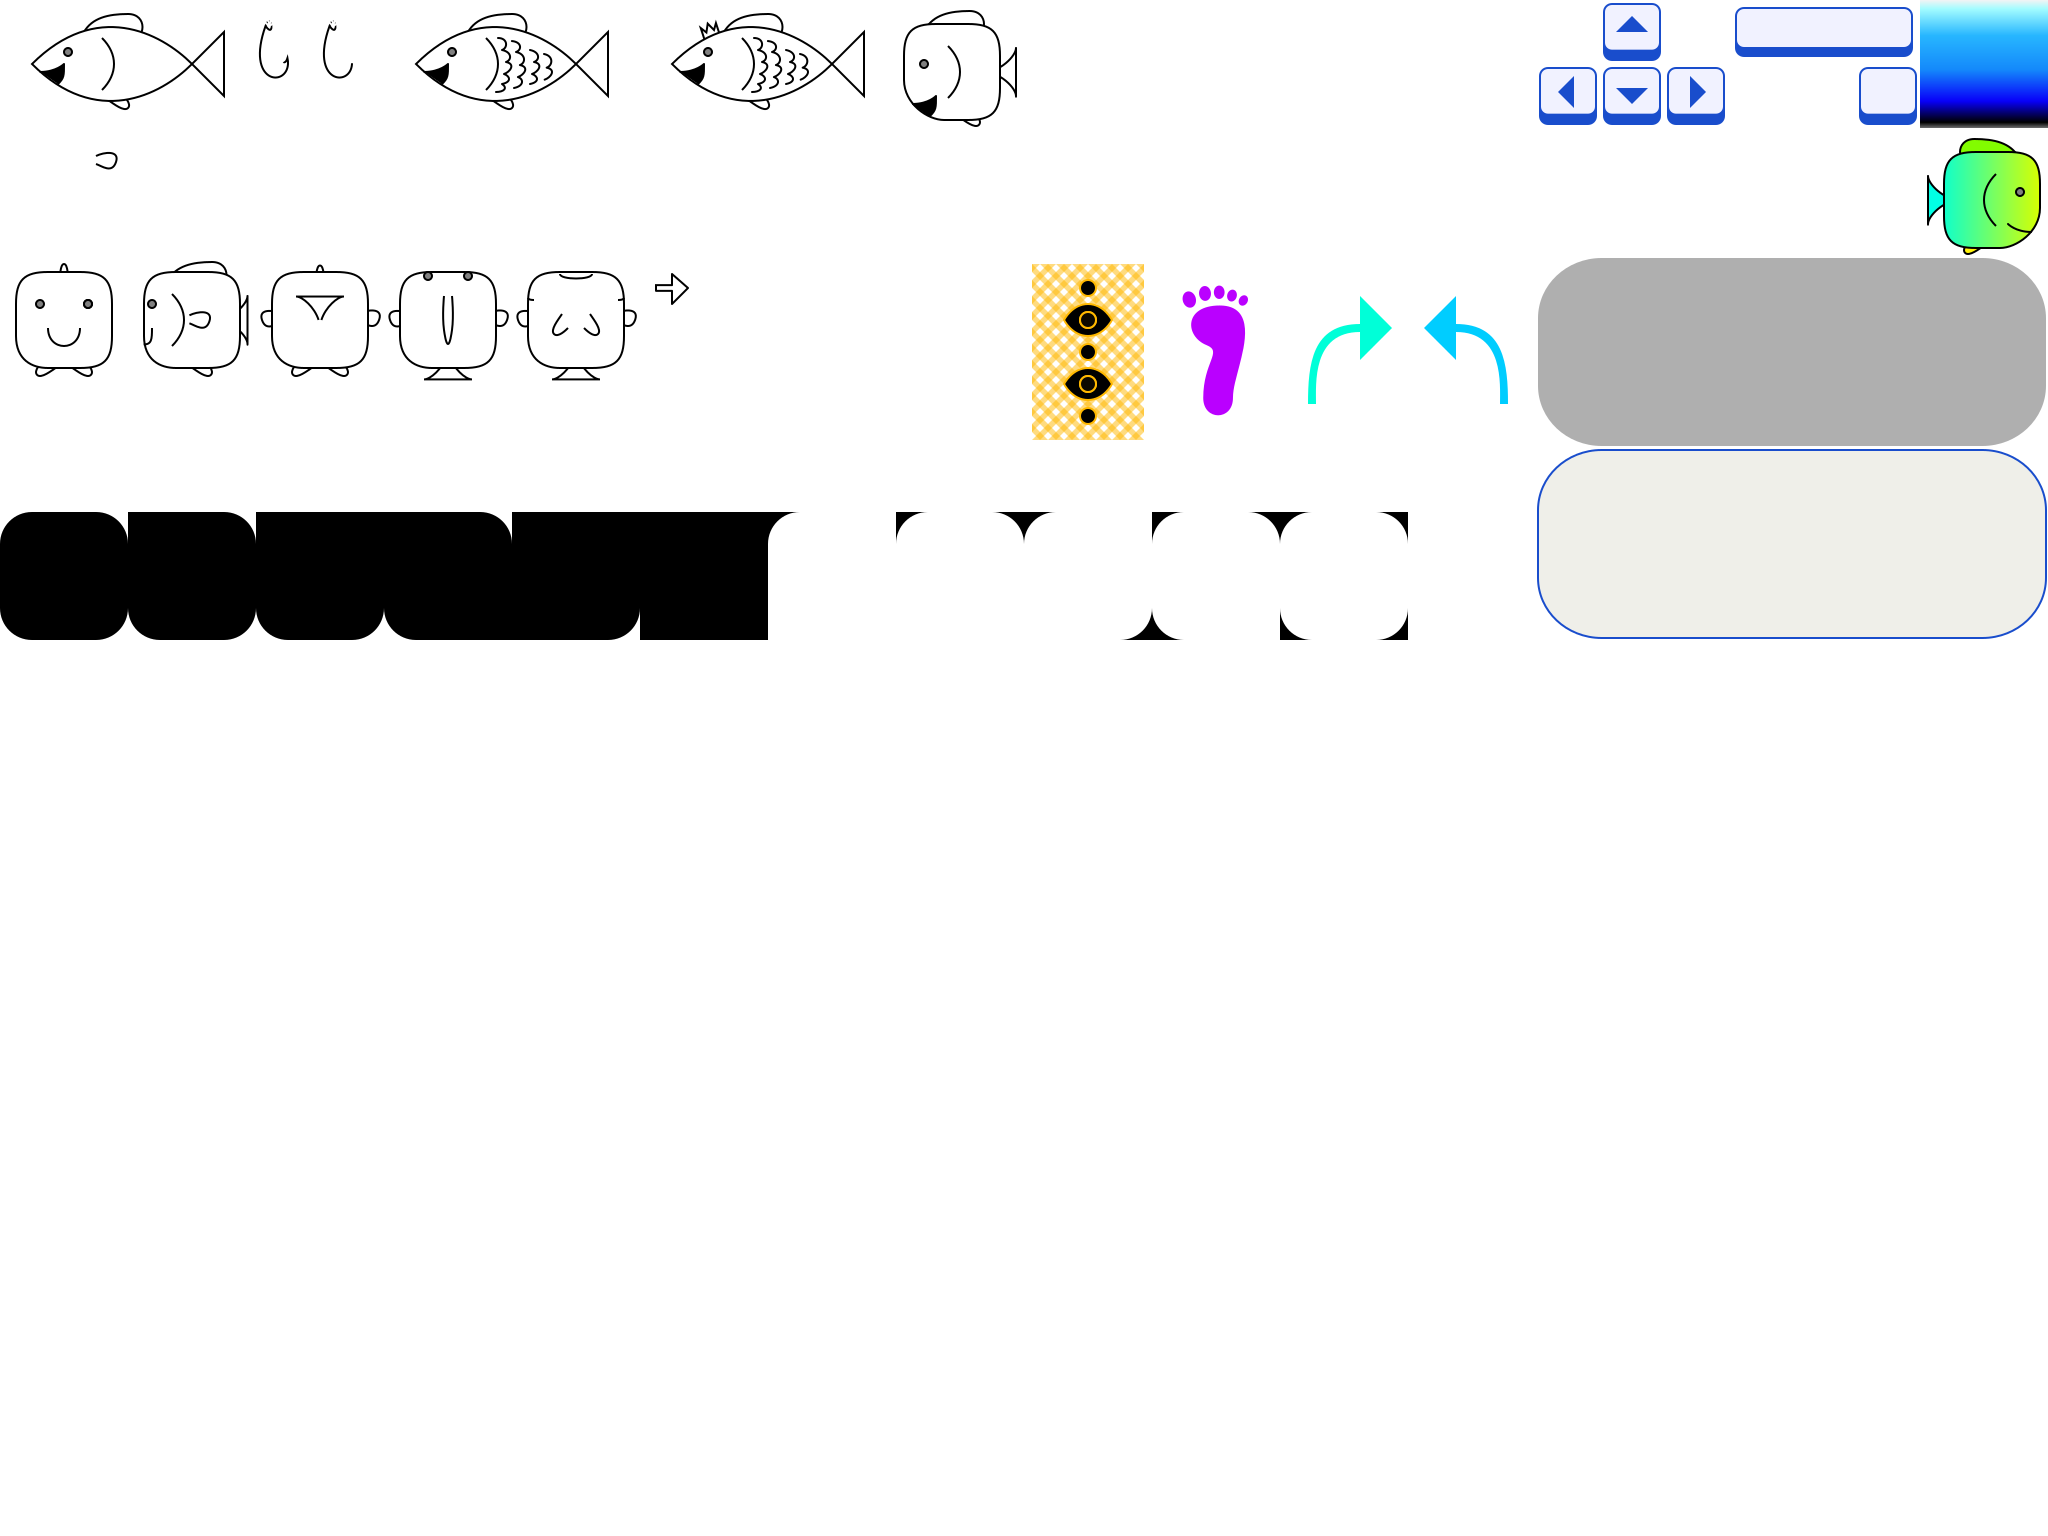
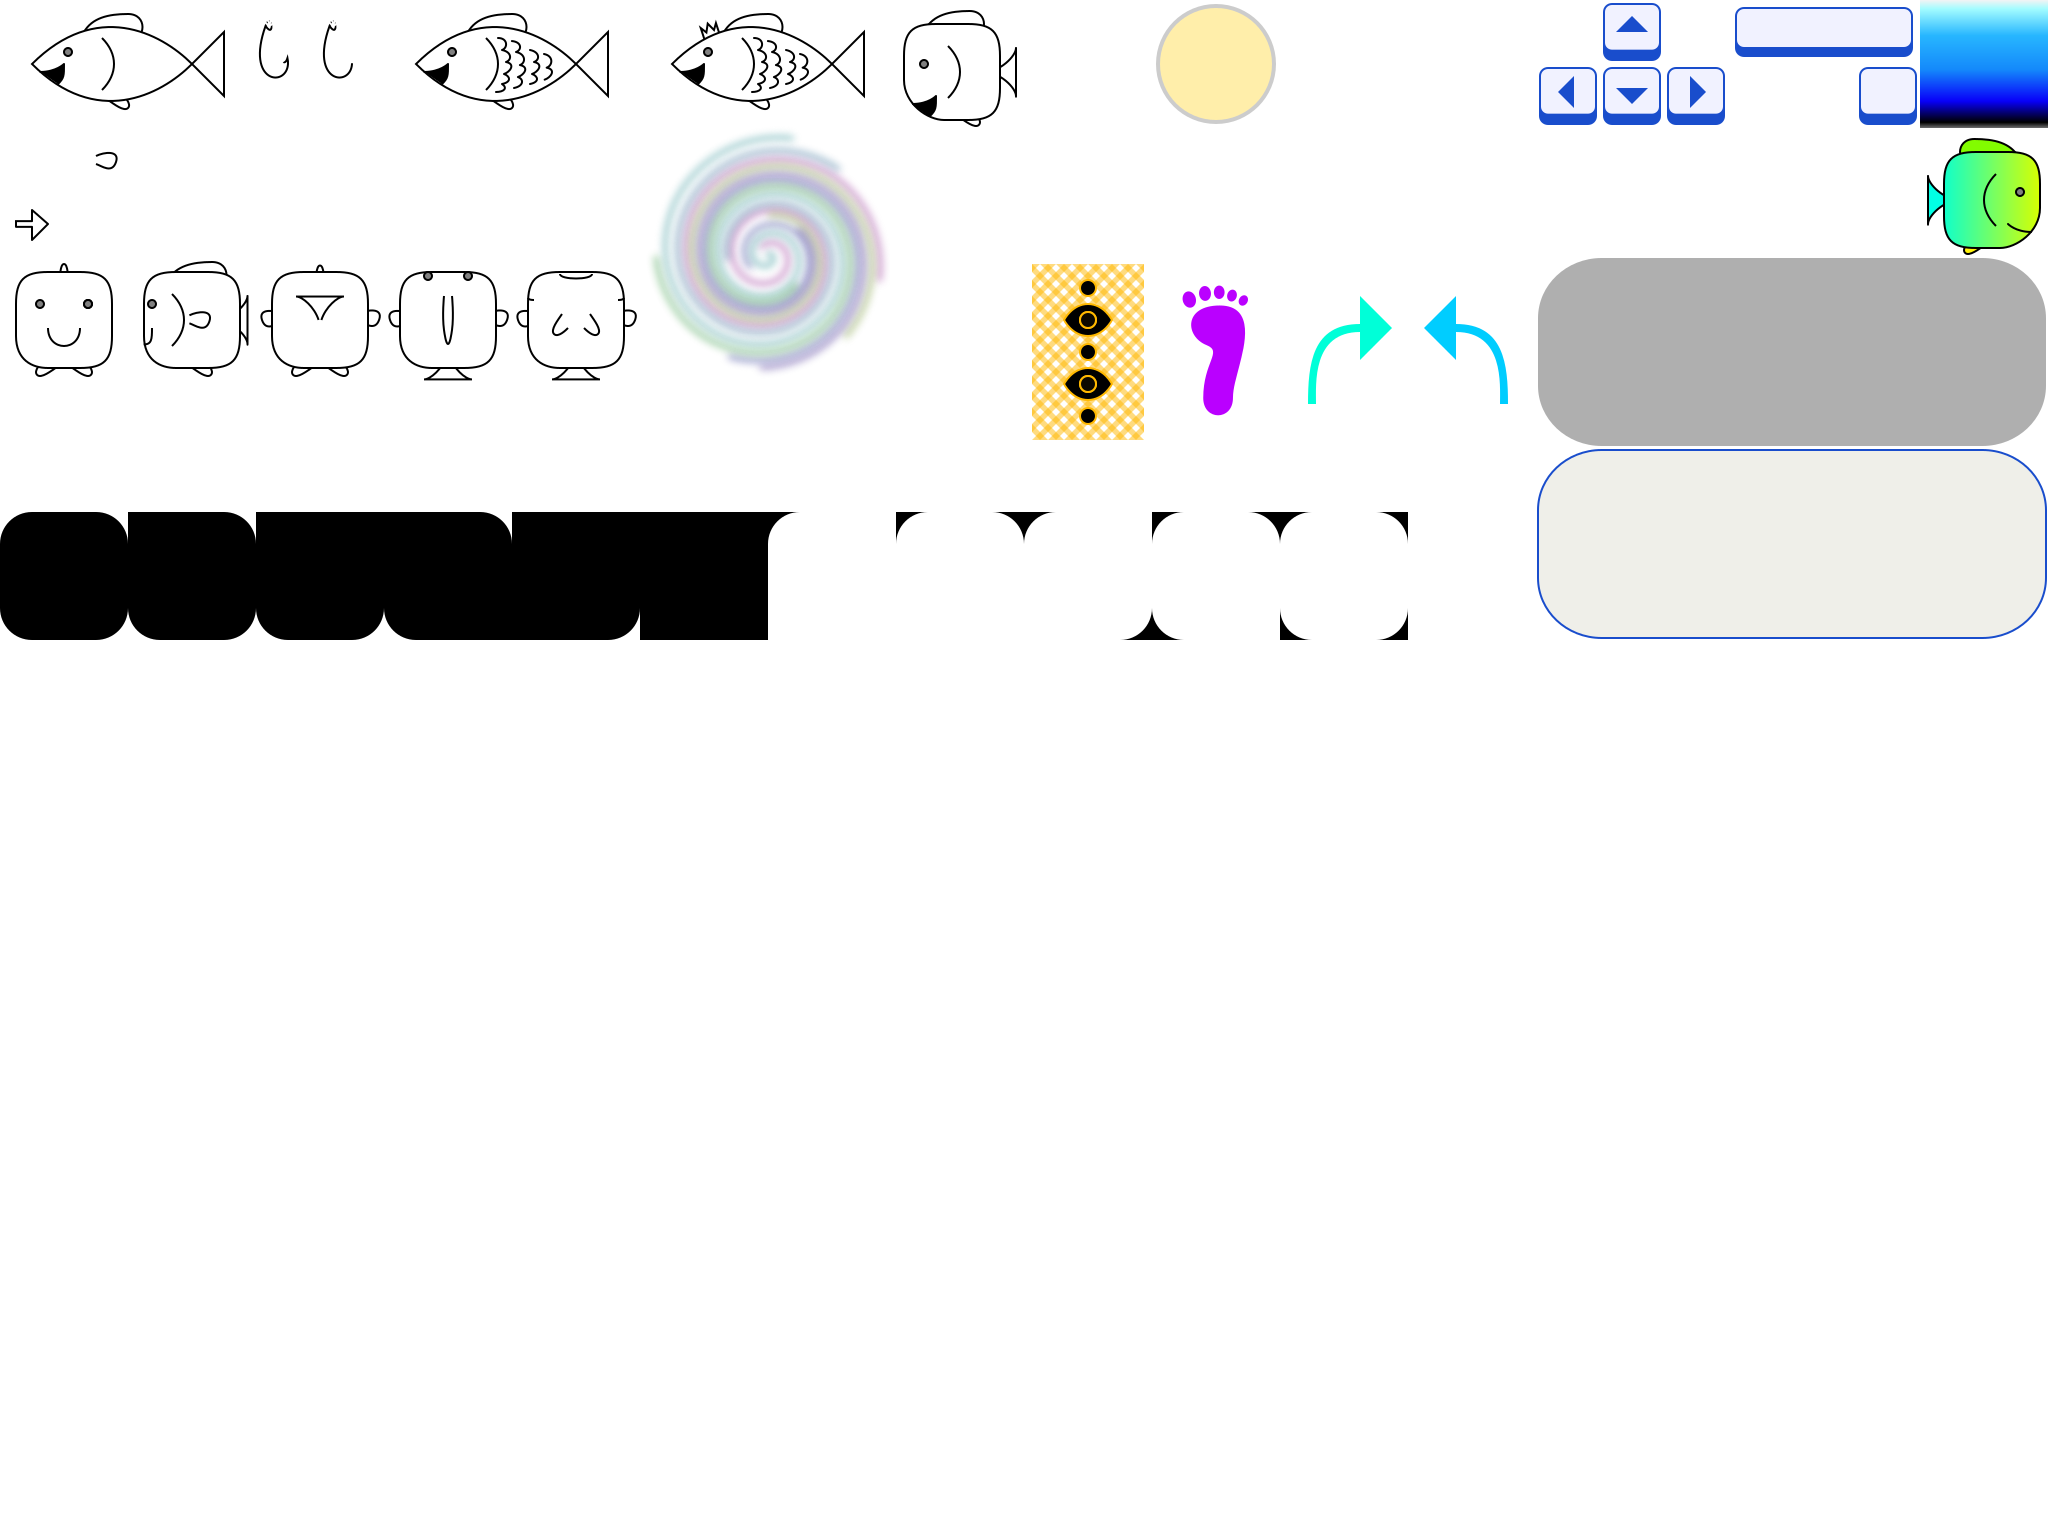
Start adding tiles

Changed region(s): [[0.3125, 0.0938, 0.4375, 0.25], [0.5625, 0.0, 0.625, 0.0938]]

diff --git a/mufl/burrow.py b/mufl/burrow.py
@@ -1,4 +1,5 @@
 from random import shuffle
+from math import tau
 
 from wasabi2d import clock, animate, keys
 
@@ -6,9 +7,12 @@ from .common import add_key_icon, change_sprite_image, KEY_NUMBERS, add_space_in
 
 CARD_COLOR = 0, 0, 0.02
 
-
 def deck_pos(i):
-    return 320 + 80*i, 128-16-8
+    return 280 + 80*i, 128-16-8
+
+
+def tile_pos(x, y):
+    return 304 + x * 63, 300 + y * 63
 
 
 class Burrowing:
@@ -16,17 +20,17 @@ class Burrowing:
         self.game = game
 
         self.bg_layer = game.scene.layers[0]
-        self.deck_layer = game.scene.layers[1]
-        self.card_layer1 = game.scene.layers[2]
-        self.card_layer2 = self.key_layer1 = game.scene.layers[3]
+        self.deck_layer = self.tile_layer = game.scene.layers[1]
+        self.card_layer1 = self.worm_layer = game.scene.layers[2]
+        self.card_layer2 = self.hypno_layer = self.key_layer1 = game.scene.layers[3]
         self.card_layer3 = self.key_layer2 = game.scene.layers[4]
 
         self.deck_sprites = []
 
-        for i in range(3):
+        for i in range(4):
             paper = self.deck_layer.add_sprite('card', color=CARD_COLOR, pos=deck_pos(i))
             ink = self.card_layer1.add_sprite('card_back', pos=deck_pos(i))
-            k = add_key_icon(self.key_layer1, self.key_layer2, 320 + 80*i + 4, 16+4, str(i+1))
+            k = add_key_icon(self.key_layer1, self.key_layer2, 280 + 80*i + 4, 16+4, str(i+1))
             self.deck_sprites.append((paper, ink, *k))
 
         self.space_sprites = add_space_instruction(self.deck_layer, 'Go')
@@ -35,17 +39,23 @@ class Burrowing:
         self.selected = []
         self.turnover_cancels = {}
 
-        cards = ['card_foot'] * 10 + ['card_left'] * 9 + ['card_right'] * 9
+        self.tile_sprites = {}
+        for x in range(4):
+            for y in range(5):
+                self.tile_sprites[x, y] = self.tile_layer.add_sprite('block_10000', pos=tile_pos(x, y))
+
+        cards = ['card_foot'] * 22 + ['card_left'] * 20 + ['card_right'] * 20
         shuffle(cards)
-        self.decks = cards[0:10], cards[10:20], cards[20:30]
-        self.decks[0].append('card_foot')
+        q = len(cards) // 4
+        self.decks = cards[0:q], cards[q:2*q], cards[2*q:3*q], cards[3*q:4*q]
         self.decks[0].append('card_foot')
         self.decks[1].append('card_left')
         self.decks[2].append('card_right')
+        self.decks[3].append('card_foot')
 
         async def init_anim():
             await clock.coro.sleep(0.5)
-            for i in range(3):
+            for i in range(len(self.decks)):
                 self.turn_over(i, i/10)
             await clock.coro.sleep(0.5)
             await self.add_card(0)
@@ -55,6 +65,28 @@ class Burrowing:
         self.ink_sprites = {}
 
         clock.coro.run(init_anim())
+
+        pg = self.hypno_layer.add_particle_group(
+            'hypno', grow=0.9, max_age=1, spin_drag=1.1,
+        )
+        pg.add_color_stop(0, (1, 1, 1, 0))
+        pg.add_color_stop(.4, (1, 1, 1, 1))
+        pg.add_color_stop(.6, (1, 1, 1, .8))
+        pg.add_color_stop(1, (.8, .8, 1, 0))
+        self.hypno_emitters = []
+        for x in range(4):
+            for y in range(5):
+                em = pg.add_emitter(
+                    rate=1, pos=tile_pos(x, y), pos_spread=(16, 16),
+                    vel_spread=(8, 8), size=16, spin_spread=tau,
+                )
+                self.hypno_emitters.append(em)
+
+        self.worm_sprites = [
+            self.worm_layer.add_sprite('worm_segment', x=i*16, y=50)
+            for i in range(10)
+        ]
+
 
     def turn_over(self, i, delay=0):
         try:
@@ -124,7 +156,7 @@ class Burrowing:
 
         self.deck_sprites.append((paper, ink))
 
-        pos = self.get_selected_pos(len(self.selected))
+        pos = self.get_selected_pos(len(self.selected)-1)
         for s in paper, ink:
             an = animate(s, pos=pos, scale=0.4, duration=0.5, tween='accel_decel')
         await clock.coro.sleep(0.4)
@@ -132,15 +164,16 @@ class Burrowing:
             an = animate(spr, pos=pos, scale=sc, duration=0.1, tween='accel_decel')
 
     def get_selected_pos(self, i):
-        return 32 - 4 + 24 * (i-1), 192
+        return 32 + 20 + 24 * ((i%32)-1), 180 + 38 * (i//32)
 
     def on_key_down(self, key):
         if self.selecting:
             if key == keys.ESCAPE:
                 self.game.abort_activity()
             num = KEY_NUMBERS.get(key)
-            if num and 1 <= num <= 3:
+            if num and 1 <= num <= len(self.decks):
                 i = num - 1
                 if cancel := self.turnover_cancels.pop(i, None):
                     cancel()
                 clock.coro.run(self.add_card(i))
+

diff --git a/mksprite.py b/mksprite.py
@@ -14,6 +14,7 @@ mksprite(3, 0, 2, 1, 'fish_scaly')
 mksprite(5, 0, 2, 1, 'fish_crown')
 mksprite(7, 0, 1, 1, 'fish_box')
 
+mksprite(9, 0, 1, 1, 'worm_segment')
 mksprite(10, 0, 2, 2, 'blur_circle')
 mksprite(12, 0, 1.5, 1, 'kbd_arrows')
 mksprite(13.5, 0, 1.5, 0.5, 'kbd_space')
@@ -29,6 +30,8 @@ mksprite(2.5, 1, 0.5, 0.5, 'cube')
 mksprite(3, 1, 0.5, 0.5, 'nada')
 mksprite(3.5, 1, 0.5, 0.5, 'thing')
 
+mksprite(5, 1, 2, 2, 'hypno')
+
 mksprite(15, 1, 1, 1, 'logo')
 
 mksprite(0, 2, 1, 1, 'die_front')
@@ -36,12 +39,13 @@ mksprite(1, 2, 1, 1, 'die_side')
 mksprite(2, 2, 1, 1, 'die_back')
 mksprite(3, 2, 1, 1, 'die_top')
 mksprite(4, 2, 1, 1, 'die_bottom')
-mksprite(5, 2, 0.5, 0.5, 'arrow')
 mksprite(7, 2, 1, 2, 'card')
 mksprite(8, 2, 1, 2, 'card_back')
 mksprite(9, 2, 1, 2, 'card_foot')
 mksprite(10, 2, 1, 2, 'card_right')
 mksprite(11, 2, 1, 2, 'card_left')
+
+mksprite(0, 2.5, 0.5, 0.5, 'arrow')
 
 mksprite(12, 2, 4, 1.5, 'action_bg')
 mksprite(12, 3.5, 4, 1.5, 'selected_bg')
